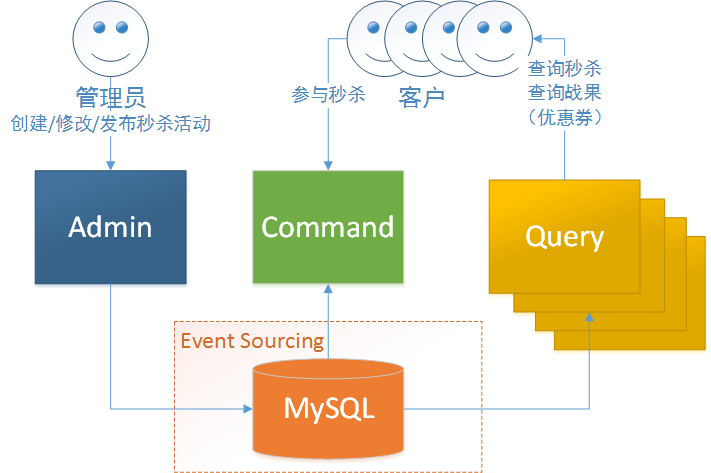
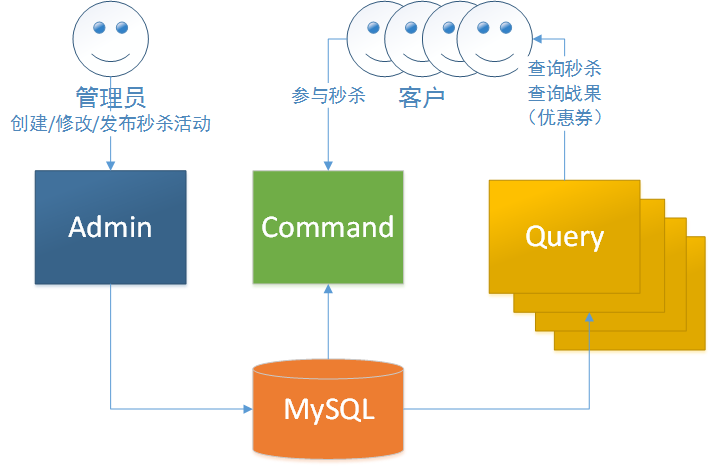
fix pr comment and add en version

diff --git a/_posts/cn/2017-08-26-seckill-develop-course-part-I.md b/_posts/cn/2017-08-26-seckill-develop-course-part-I.md
@@ -11,15 +11,16 @@ redirect_from:
 ---
 
 ## 概述
-　　秒杀是我们ServiceComb开源团队以领域驱动设计（[DDD](https://en.wikipedia.org/wiki/Domain-driven_design)）为背景，如何从零开始构建一个微服务架构的示例项目。在这个过程中，您可以学习到微服务架构区别于传统单体程序架构的诸多特点；另外，我们还将使用敏捷开发的模式快速构建它，敏捷开发涉及的范围非常广泛，实践完全合规的敏捷开发过程是一件非常有挑战性的事情，所以我们会简化很多细节，但您仍然可以体验到与大多人所熟悉的瀑布开发模式明显不同的过程。
+　　秒杀是我们ServiceComb开源团队以领域驱动设计（[DDD](https://en.wikipedia.org/wiki/Domain-driven_design)）为背景，如何从零开始构建一个微服务架构的示例项目。在这个过程中，您可以学习到微服务架构区别于传统单体程序架构的诸多特点，同时我们还将使用敏捷开发的模式快速构建它。
 
 ## 背景
-　　秒杀的需求起源于互联网常见的促销方式，它也是我们航空订票系统（Acmeair）示例项目需求的自然延伸——客户制定他/她的出行计划，然后购买机票，支付订单的时候，我们可以支持使用优惠券获得一些折扣，由于优惠券的数量是非常有限的，所以我们必须提供一个平台，让每一位希望得到它的人公平竞争，这样的场景我相信在平日的生活中随处可见。
+　　秒杀的需求起源于互联网常见的促销方式——支付订单的时候，我们可以支持使用优惠券获得一些折扣，由于优惠券的数量是非常有限的，所以我们必须提供一个平台，让每一位希望得到它的人公平竞争，这样的场景我相信在平日的生活中随处可见。
 
 　　由于秒杀是一个示例项目，所以我们不希望它太复杂，真实的秒杀活动需要考虑的细节要远远超过我们的想象；我们也不希望它太过于具体在特定的形式，例如优惠券、满减、抢购码，等等，这样总会让部分读者难以理解；最后，我们使用了先到先得这种最原始的策略，如果您想尝试其他策略，可以下载代码自行修改，我相信也不会太困难。
 
 ## 初次设计
-　　首先我们分析客户Bounded Context中的业务：  
+　　首先我们分析客户核心业务述求：  
+
 1. 客户可以请求秒杀一张优惠券，系统返回获取优惠券成功或失败（已经被秒光了）；  
 2. 客户可以查询自己目前有多少张优惠券；  
 
@@ -30,7 +31,7 @@ redirect_from:
 2. 微服务架构的原则是组件（服务）提供较为单一的功能，所以每个组件所需要实现的功能范围比较小，不必先将所有的功能都设计出来；  
 3. 应该尽快切入主题，也就是立刻去解决核心域的问题。
 
-　　现在，我们需要使用正确的“姿势”完成设计过程——遵循DDD的诸多原则，设计过程的核心就是识别出实体、值对象和服务等元素，进一步寻找聚合；由于我们的需求非常简单，所以很容易就能将它们找出来：  
+　　现在，我们需要使用正确的“姿势”完成设计过程——遵循领域驱动设计（[DDD](https://en.wikipedia.org/wiki/Domain-driven_design)）的诸多原则，设计过程的核心就是识别出实体、值对象和服务等元素，进一步寻找聚合；由于我们的需求非常简单，所以很容易就能将它们找出来：  
 *  实体：促销秒杀（Promotion）  
 *  值对象：优惠券（Coupon），促销秒杀事件（PromotionEvent）  
 *  领域服务：秒杀活动（SecKill）
@@ -39,15 +40,15 @@ redirect_from:
 1. Command：SecKill领域服务；  
 2. Query： Coupon值对象查询
 
-![图1 初次架构](/assets/images/seckill-develop-course-part-I-arth.png) {: .align-center}
+![图1 初次架构](/assets/images/seckill-develop-course-part-I-arth.png){: .align-center}
 
 ## 功能实现
-　　秒杀的代码托管在[SecKill](https://github.com/ServiceComb/seckill)，欢迎Watch和Star。
+　　秒杀的代码托管在[Github](https://github.com/ServiceComb/seckill)，欢迎Watch和Star。
 
 ### Command微服务的实现
 　　我们设计了SecKillCommandService和SecKillPersistentRunner两个类分别完成秒杀处理和结果持久化，考虑到持久化速度慢，我们使用BlockQueue做缓存；另外设计了SecKillCommandRestController作为客户请求的Endpoint；ServiceComb支持多种编程模型和通信模型，我们使用目前较较为流行的Spring Boot Rest作为基础框架，如果您的程序也使用了它，那么只需要稍加调整即可无缝上云。
 
-![图2 Command微服务组件](/assets/images/seckill-develop-course-part-I-command.png) {: .align-center}
+![图2 Command微服务组件](/assets/images/seckill-develop-course-part-I-command.png){: .align-center}
 
 ## Query微服务的实现
 　　查询逻辑较简单，因为PromotionEvent是值对象，我们使用了PromotionEvent推导Coupon，各位看官读读代码就明白了。
@@ -55,14 +56,14 @@ redirect_from:
 ## 构建支撑域
 　　Promotion是实体，诚然，就像一开始提到的，我们需要在另外一个领域去管理（构建）它才能开始后面的秒杀活动，由于我们直接切入核心域展开工作，支撑域和普通域部分目前我们通过Spring注入固定对象来完成，例如：
 
-![图3 支撑域注入](/assets/images/seckill-develop-course-part-I-spring.png) {: .align-center}
+![图3 支撑域注入](/assets/images/seckill-develop-course-part-I-spring.png){: .align-center}
 
 ## 功能验证
 　　最后，我们使用PostMan体验完成的功能，请注意Body的填写使用JSON格式，并且类型选择JSON(application/json)：
 ### 请求秒杀
 
-![图4 请求秒杀](/assets/images/seckill-develop-course-part-I-request-seckill.png) {: .align-center}
+![图4 请求秒杀](/assets/images/seckill-develop-course-part-I-request-seckill.png){: .align-center}
 
 ### 查询拥有的优惠券
 
-![图5 查询拥有的优惠券](/assets/images/seckill-develop-course-part-I-query-coupons.png) {: .align-center}
+![图5 查询拥有的优惠券](/assets/images/seckill-develop-course-part-I-query-coupons.png){: .align-center}

diff --git a/_posts/cn/2017-09-07-seckill-develop-course-part-III.md b/_posts/cn/2017-09-07-seckill-develop-course-part-III.md
@@ -15,12 +15,8 @@ redirect_from:
 ## CQRS
 　　[CQRS](https://docs.microsoft.com/en-us/azure/architecture/patterns/cqrs) 的含义是命令查询职责分离（Command Query Responsibility Segregation），是一种常用的程序设计模式，常常与Event Sourcing一起使用，关于CQRS有一张科普的图，来源于Microsoft MSDN：
 
-![图1 CQRS](/assets/images/seckill-develop-course-part-III-cqrs.png) {: .align-center}
+![图1 CQRS](/assets/images/seckill-develop-course-part-III-cqrs.png){: .align-center}
 
-　　您还可以从如下资料获取更多参考信息：  
-https://docs.microsoft.com/en-us/azure/architecture/patterns/cqrs  
-https://msdn.microsoft.com/en-us/library/jj591559.aspx  
-https://martinfowler.com/eaaDev/EventSourcing.html  
 
 ## 改进设计
 　　[CQRS](https://docs.microsoft.com/en-us/azure/architecture/patterns/cqrs)是读写分离以及消息驱动的最佳实践，现在我们把目光聚焦在原来的MySQL数据库上：  
@@ -29,7 +25,7 @@ https://martinfowler.com/eaaDev/EventSourcing.html
 3. Message Broker目前有很多非常棒的方案，例如RabbitMQ、Kafka等，由于我们的秒杀系统基于ServiceComb和Spring Boot，为了能够快速构建这个新特性，我们选用内置的ActiveMQ，它支持内存队列模式，非常容易构建测试，符合我们敏捷开发的方式。  
     改进完成后的架构如下图：
 
-![图2 改进架构](/assets/images/seckill-develop-course-part-III-arch.png) {: .align-center}
+![图2 改进架构](/assets/images/seckill-develop-course-part-III-arch.png){: .align-center}
 
 ## 功能实现
 ### 数据库拆分
@@ -41,7 +37,8 @@ https://martinfowler.com/eaaDev/EventSourcing.html
 　　Query微服务查询ActivePromotion值对象和Coupon值对象。
 
 ### Command微服务Message Publisher组件
-　　之前的版本由于没有引入Event Sourcing，Event实体只需要直接写入数据库即可，现在需要将Event发布给Message Broker，考虑到未来更新至华为云会更换为分布式消息服务（DMS）作为Message Broker，我们定义了通用消息发布接口。
+　　之前的版本由于没有引入Event Sourcing，Event实体只需要直接写入数据库即可，现在需要将Event发布给Message Broker，为了支持云服务（[华为云](http://www.hwclouds.com/)）提供的分布式消息服务，我们定义了通用消息发布接口：
+
 ```java
 public interface SecKillMessagePublisher {
   void publishMessage(String messageContent);
@@ -49,25 +46,30 @@ public interface SecKillMessagePublisher {
 ```
 
 ### Event微服务的实现
-　　Event微服务订阅Mesasge Broker获取Event Message，然后根据不同的Event类型，转化为对ReadDB中的ActivePromotionVO操作或CouponVO操作：  
-* Promotion Start Message：创建ActivePromotionVO；  
-* Promotion Finish Message：删除对应PromotionId的ActivePromotionVO；  
-* Coupon Grabbed Message：创建CouponVO；
+　　Event微服务订阅Message Broker获取Event Message，然后根据不同的Event类型，转化为对ReadDB中的值对象操作或Coupon值对象操作：  
+* Promotion Start Message：创建ActivePromotion值对象；  
+* Promotion Finish Message：删除对应PromotionId的ActivePromotion值对象；  
+* Coupon Grabbed Message：创建Coupon值对象；
 
-　　同样，考虑到未来更新至华为云会更换为分布式消息服务（DMS）作为Message Broker，我们定义了通用消息订阅接口：
+　　同样，为了支持云服务（[华为云](http://www.hwclouds.com/)）提供的分布式消息服务，我们定义了通用消息订阅接口：
+
 ```java
 public interface SecKillMessageSubscriber {
   void subscribeMessage(String messageContent);
 }
 ```
 
-### Query微服务的更新
-　　经过了读写分离的改造，现在所有活跃的Promotion都保存在ActivePromotionVO中，而客户成功秒杀的Coupon都保存在CouponVO中，因此直接查询即可，不再需要Replay Event。
+### Query微服务的重构
+　　经过了读写分离的改造，现在所有活跃的Promotion都保存在ActivePromotion值对象表中，而客户成功秒杀的Coupon都保存在Coupon值对象表中，因此直接查询即可，不再需要Replay Event。
 
 ## 一键启动
-　　现在，我们完成了完整的Event Sourcing架构改造，为了能够方便使用，我们提供了编排好的脚本，使用Docker Compose将所有服务一条指令全部拉起来，具体的操作请参见[SecKill](https://github.com/ServiceComb/seckill)。
+　　现在，我们完成了完整的Event Sourcing架构改造，为了能够方便启动，我们提供了编排好的脚本，使用Docker Compose将所有服务一条指令全部拉起来，具体的操作请参见[SecKill](https://github.com/ServiceComb/seckill)。
 
 ### 在Docker ToolBox中启动的SecKill
 
-![图3 SecKill All-in-One](/assets/images/seckill-develop-course-part-III-seckill-all-in-one.png) {: .align-center}
+![图3 SecKill All-in-One](/assets/images/seckill-develop-course-part-III-seckill-all-in-one.png){: .align-center}
 
+##参考资料
+https://docs.microsoft.com/en-us/azure/architecture/patterns/cqrs  
+https://msdn.microsoft.com/en-us/library/jj591559.aspx  
+https://martinfowler.com/eaaDev/EventSourcing.html  

diff --git a/_posts/2017-08-26-seckill-develop-course-part-I.md b/_posts/2017-08-26-seckill-develop-course-part-I.md
@@ -1,0 +1,69 @@
+---
+title: "SecKill Develop Course (I)"
+lang: en
+ref: seckill-develop-course-part-I
+permalink: /docs/seckill-develop-course-part-I/
+excerpt: "an introduction how build seckill demo project using agile development mode step by step"
+last_modified_at: 2017-09-13T09:00:00+08:00
+author: Yangyong Zheng
+redirect_from:
+  - /theme-setup/
+---
+
+## Overview
+  SecKill is our ServiceComb open source team how builds a micro-service architecture from the perspective of domain-driven design ([DDD](https://en.wikipedia.org/wiki/Domain-driven_design)). In this process, you can learn from the micro-service architecture is different from the traditional single program architecture features; In addition, we will use the agile development model to quickly build it.
+
+## Background
+
+  SecKill's demand originated from the Internet's popular promotions, support use coupons to obtain some discounts; because the number of coupons is very limited, so we must provide a platform for everyone who wants to get it fair competition. 
+
+  Because SecKill is a demo project, so we don't want make it too complicated, the real seckill scenario has too many details that go far beyond our imagination; we also don't want make it too specific, and we use the most primitive strategy - first come first get, if you want to try other strategies, you can download the source code and modify it, I believe that will not difficult.
+
+## First Design
+  Now let's us analyze requirement in customer bounded context:  
+1. Customer can request grab a coupon,system will return whether successed;  
+2. Customer can query how many coupons owned.  
+
+  Let's go! what? you say this description is to simple? because they are no registration system, and promotion is how come, how to start? which coupon the customer request for? Is the discount all same? etc.
+
+  Actually, we are accustomed to thinking a lot at the beginning, so some larger system, the design stage may be a few months, but this time you can't consider too much, because we believe:  
+3. Over-design can't guarantee fully meetting the demand after construction completed, the only constant is the demand is always changing, so don't over-design;  
+4. The principle of the micro-service architecture is that service provides single function, so each component(micro-service) only need to provide small service, without having to design all the services in system one-time;  
+5. Should be solve the problem of the core domain as soon as possible.
+
+  Then, we need to use correct method to complete the design process - follow the many principles of domain-driven design ([DDD](https://en.wikipedia.org/wiki/Domain-driven_design)). The core task of the design process is identify entities, value objects, services and other elements, and further search aggregation; because our requirements are very simple, so it's easy find them out:  
+*  Entities:Promotion  
+*  Value-Object:Coupon,PromotionEvent  
+*  Domain Service:SecKill  
+
+  Now we can found the aggregation between them, separated two micro-services, in order to quickly complete we direct use MySQL database for shared data (although micro-service recommend use independent storage for each, we will improve this point future)  
+1. Command micro-service:for SecKill domian service  
+2. Query micro-service:for query Coupon Value-Object
+
+![Fig-1 Architecture](/assets/images/seckill-develop-course-part-I-arth-en.png){: .align-center}
+
+## Core Domain Implement
+  The source code at [Github](https://github.com/ServiceComb/seckill), Welcome to Watch and Star : )
+### Implement of Command micro-service
+  We create two class "SecKillCommandService" and "SecKillPersistentRunner" to accept seckill request and persist seckill result, considering persistence is slow, we use BlockQueue temporary cache requests. another class "SecKillCommandRestController" act as Endpoint; ServiceComb support a variety of programming models and communication model, also well support Spring Boot, and easy deploy to Huawei cloud.
+
+![Fig-2 Command micro-service components](/assets/images/seckill-develop-course-part-I-command-en.png){: .align-center}
+
+### Implement of Query micro-service
+  Query logic is relatively simple, because PromotionEvent is Value-Object, we use PromotionEvent records to get Coupon Value-Object, you can read the source code and understand this process.
+
+## Support Domain Implement
+  As promotion is entity and seckill need it as preconditions, we need build and manage it in another domain, because it's not so urgent at current stage, we can use Spring injection autowire fix objects.
+
+![Fig-3 Support domain object injection](/assets/images/seckill-develop-course-part-I-spring.png){: .align-center}
+
+## Function Verification
+  Finally, we use PostMan to check completed functions, Please ensure request body fill with JSON format, and set Content-Type to application/json:
+
+### Request SecKill
+
+![Fig-4 Request seckill](/assets/images/seckill-develop-course-part-I-request-seckill.png){: .align-center}
+
+### Query owned coupons
+
+![Fig-5 Query owned coupons](/assets/images/seckill-develop-course-part-I-query-coupons.png){: .align-center}

diff --git a/_posts/2017-09-07-seckill-develop-course-part-III.md b/_posts/2017-09-07-seckill-develop-course-part-III.md
@@ -1,0 +1,75 @@
+---
+title: "SecKill Develop Course (III)"
+lang: en
+ref: seckill-develop-course-part-III
+permalink: /docs/seckill-develop-course-part-III/
+excerpt: "an introduction how build seckill demo project using agile development mode step by step"
+last_modified_at: 2017-09-13T09:00:00+08:00
+author: Yangyong Zheng
+redirect_from:
+  - /theme-setup/
+---
+
+  [Previous article]({{ site.url }}{{ site.baseurl }}/docs/seckill-develop-course-part-II/) we had built a full-featured seckill demo, release it version 0.1.0-RELEASE; now you should find that data persistence is centered on a single database, seckill is high-stress scenario, it's difficult to meet high-scalable requirement, and as we mentioned at the beginning, micro-service is recommended to have independent storage, so we will start using Event Sourcing implement CQRS pattern to enhance the ability to endure huge requests.
+
+## CQRS
+  CQRS means Command Query Responsibility Segregation, it's a powerful design pattern, often implement with Event Sourcing, there has a figure describe it from Microsoft MSDN:
+
+![Fig-1 CQRS](/assets/images/seckill-develop-course-part-III-cqrs.png){: .align-center}
+
+## Improvement Design
+  CQRS is read write separation and message-driven best practices, now we focus on the MySQL database:  
+1. The database should be split into ReadDB and WriteDB,read-intensive Query micro-service and write-intensive Command micro-service should be independent;
+2. ReadDB and WriteDB using Event Message drive data synchronization, so we need add a new micro-service named Event(Processor);  
+3. Message Broker currently has a lot of great implements, such as RabbitMQ, Kafka, etc., because our seckill based on ServiceComb and Spring Boot, in order to be able to quickly build this new feature, we use built-in ActiveMQ, which supports memory queue mode, very easy to build Testing, suitable for agile development approach
+
+  Now the latest Architecture below:
+
+![Fig-2 CQRS improved Architecture](/assets/images/seckill-develop-course-part-III-arch-en.png){: .align-center}
+
+## Improvement Implement
+### Database Separation
+#### WriteDB
+  Admin micro-serivce maintain Promotion entity; 
+
+  Command micro-serivce wirte PromotionEvent Value-Object,when recovery Promotion,Relapy PromotionEvent. 
+#### ReadDB
+  Event micro-service write ActivePromotion Value-Object and Coupon Value-Object;
+
+  Query micro-service query ActivePromotion Value-Object and Coupon Value-Object.
+
+#### Command micro-service Message Publisher component
+  Since the Event Sourcing was not introduced before, the PromotionEvent entity only needed to write to the database directly. Now it is necessary to publish PromotionEvent to Message Broker. Considering that future we will be replaced by Distributed Message Service (DMS) as Message Broker in order to deploy to [Huawei Cloud](http://www.hwclouds.com/), We defined the generic message publish interface:
+```java
+public interface SecKillMessagePublisher {
+  void publishMessage(String messageContent);
+}
+```
+
+#### Event micro-service implement
+  Event micro-service subscribe Message Broker in order to get PromotionEvent Message,then depending on the message type convert to ActivePromotion Value-Object operation or Coupon Value-Object operation in ReadDB.   
+* Promotion Start Message: create ActivePromotion Value-Object;   
+* Promotion Finish Message: delete ActivePromotion Value-Object var Id;  
+* Coupon Grabbed Message: create Coupon Value-Object;
+
+  Also considering that future we will be replaced by Distributed Message Service (DMS) as Message Broker in order to deploy to [Huawei Cloud](http://www.hwclouds.com/), We defined the generic message subscribe interface:
+```java
+public interface SecKillMessageSubscriber {
+  void subscribeMessage(String messageContent);
+}
+```
+
+#### Update of Query micro-service
+  After the refactoring of the read and write separation, all activing Promotion are saved in ActivePromotion Value-Object Table, and customers own Coupon are stored in Coupon Value-Object Table, now we can directly query them, no longer need Replay PromotionEvent.
+
+## All-In-One start-up
+  Now, we have complete Event Sourcing architecture refactoring, in order to be easy to start-up, we provide docker compose script, use it pull all services up by one command, see detail at [SecKill](https://github.com/ServiceComb/seckill).
+
+### start-up all service in Docker ToolBox
+
+![Fig-3 SecKill All-in-One](/assets/images/seckill-develop-course-part-III-seckill-all-in-one.png){: .align-center}
+
+## Reference
+https://docs.microsoft.com/en-us/azure/architecture/patterns/cqrs  
+https://msdn.microsoft.com/en-us/library/jj591559.aspx  
+https://martinfowler.com/eaaDev/EventSourcing.html  

diff --git a/_posts/2017-08-30-seckill-develop-course-part-II.md b/_posts/2017-08-30-seckill-develop-course-part-II.md
@@ -1,0 +1,59 @@
+---
+title: "SecKill Develop Course (II)"
+lang: en
+ref: seckill-develop-course-part-II
+permalink: /docs/seckill-develop-course-part-II/
+excerpt: "an introduction how build seckill demo project using agile development mode step by step"
+last_modified_at: 2017-09-13T09:00:00+08:00
+author: Yangyong Zheng
+redirect_from:
+  - /theme-setup/
+---
+
+  [Previous article]({{ site.url }}{{ site.baseurl }}/docs/seckill-develop-course-part-I/) We only built a core function seckill demo, this article we will gradually improve more features in order to let it had complete function.
+
+## Problems
+  Review what we has been done, we can find that:   
+1. Service for Promotion entity is not provided (inject by Spring);  
+2. Lack some base check and features, include:  
+ * One customer can only grab one coupon per promotion  
+ * Support multi promotion activing (discount of each promotion is different)  
+3. If Command micro-service down, it will recovery all uncompleted promotions immediately before start-up again.
+
+  Maybe you would say that customer management and customer login function are not listed? Indeed, the customer is indispensable in our scenario, in order to simply design, we don't include login and token authentication etc., if you are interesting about this, you can see ServiceComb's [Company](https://github.com/ServiceComb/ServiceComb-Company-WorkShop) demo application to get more information.
+
+## Improvement Design
+  For entity, domain-driven design ([DDD](https://en.wikipedia.org/wiki/Domain-driven_design)) recommended to use a separate interface, so we design a new Admin micro-service to provide service:
+
+![Fig-1 Architecture after Admin micro-service added](/assets/images/seckill-develop-course-part-II-arth-en.png){: .align-center}
+
+## Improvement Implement
+### Implement of Admin micro-service
+  Admin micro-service only provide services for promotion entity, we can map this function to REST method:  
+* New promotion map to Post;  
+* Modify promotion map to Put;  　　
+* Query promotion map to Get;  　　
+* Delete promotion map to Delete.　　
+
+  To match current requirement we only need implement Post and Get, In addition, already started promotion should not be able to modify, so we increased the corresponding check.
+
+### New check and features Implement
+  Add a HashSet per promotion to check whether customer had grab coupon;   
+  Add "SecKillPromotionBootstrap" class as promotion bootstrap manager for support multi active, "SecKillCommandService" and "SecKillPersistentRunner" now managed(create) by it。
+
+### Command micro-service auto recovery Implement
+  Add "SecKillRecoveryService" class to check state of promotion, uncomplement promotions whether unstart or activing all need check by it to init start-up information including left coupons, grabbed customers list, etc.
+
+## Function Verification
+  Finally, we use PostMan to check completed functions, Please ensure request body fill with JSON format, and set Content-Type to application/json：
+### Create Promotion
+
+![Fig-2 Create promotion](/assets/images/seckill-develop-course-part-II-create-promotion.png){: .align-center}
+
+### Query Activing Promotions
+
+![Fig-3 Query activing promotions](/assets/images/seckill-develop-course-part-II-query-active-promotion.png){: .align-center}
+
+### Reject duplicate Grab
+
+![Fig-4 Reject duplicate grab](/assets/images/seckill-develop-course-part-II-reject-duplicate-grab.png){: .align-center}

diff --git a/_posts/cn/2017-08-30-seckill-develop-course-part-II.md b/_posts/cn/2017-08-30-seckill-develop-course-part-II.md
@@ -20,12 +20,12 @@ redirect_from:
  * 同时可以有多个Promotion进行（折扣不同，数量也不同）  
 3. 如果Command微服务故障，再次恢复后，需要恢复未完成正在进行中的秒杀活动。  
 
-　　也许您会说，客户管理和客户登录为什么没有罗列出来？的确，客户在我们的场景中是不可或缺的，但是，我们认为目前将这个实体（是的，User是一个实体）直接使用值对象ID代替就可以了；这方面的设计和实现，包括模型、安全策略、认证方式都有很多可以参考的资料，例如您可以移步到ServiceComb的WorkShop示例应用中找到完整的内容，地址在[WorkShop](https://github.com/ServiceComb/ServiceComb-Company-WorkShop)。
+　　也许您会说，客户管理和客户登录为什么没有罗列出来？的确，客户在我们的场景中是不可或缺的，但是我们为了简化设计，没有包含登录以及请求认证的内容，如果对这方面感兴趣您可以移步到ServiceComb的Company示例实现了一个简单基于token的认证方式，地址在[Company](https://github.com/ServiceComb/ServiceComb-Company-WorkShop)。
 
 ## 再次设计
 　　对于实体，领域驱动设计（[DDD](https://en.wikipedia.org/wiki/Domain-driven_design)）推荐使用独立接口，因此我们设计一个新的Admin微服务来提供服务：
 
-![图1 增加了Admin微服务后的架构](/assets/images/seckill-develop-course-part-II-arth.png) {: .align-center}
+![图1 增加了Admin微服务后的架构](/assets/images/seckill-develop-course-part-II-arth.png){: .align-center}
 
 ## 功能实现
 ### Admin微服务的实现
@@ -48,12 +48,12 @@ redirect_from:
 　　最后，我们使用PostMan体验完成的功能，请注意Body的填写使用JSON格式，并且类型选择JSON(application/json)：
 ### 创建秒杀活动
 
-![图2 创建秒杀活动](/assets/images/seckill-develop-course-part-II-create-promotion.png) {: .align-center}
+![图2 创建秒杀活动](/assets/images/seckill-develop-course-part-II-create-promotion.png){: .align-center}
 
 ### 查询正在进行的秒杀活动
 
-![图3 查询正在进行的秒杀活动](/assets/images/seckill-develop-course-part-II-query-active-promotion.png) {: .align-center}
+![图3 查询正在进行的秒杀活动](/assets/images/seckill-develop-course-part-II-query-active-promotion.png){: .align-center}
 
 ### 拒绝重复秒杀
 
-![图4 拒绝重复秒杀](/assets/images/seckill-develop-course-part-II-reject-duplicate-grab.png) {: .align-center}
+![图4 拒绝重复秒杀](/assets/images/seckill-develop-course-part-II-reject-duplicate-grab.png){: .align-center}
